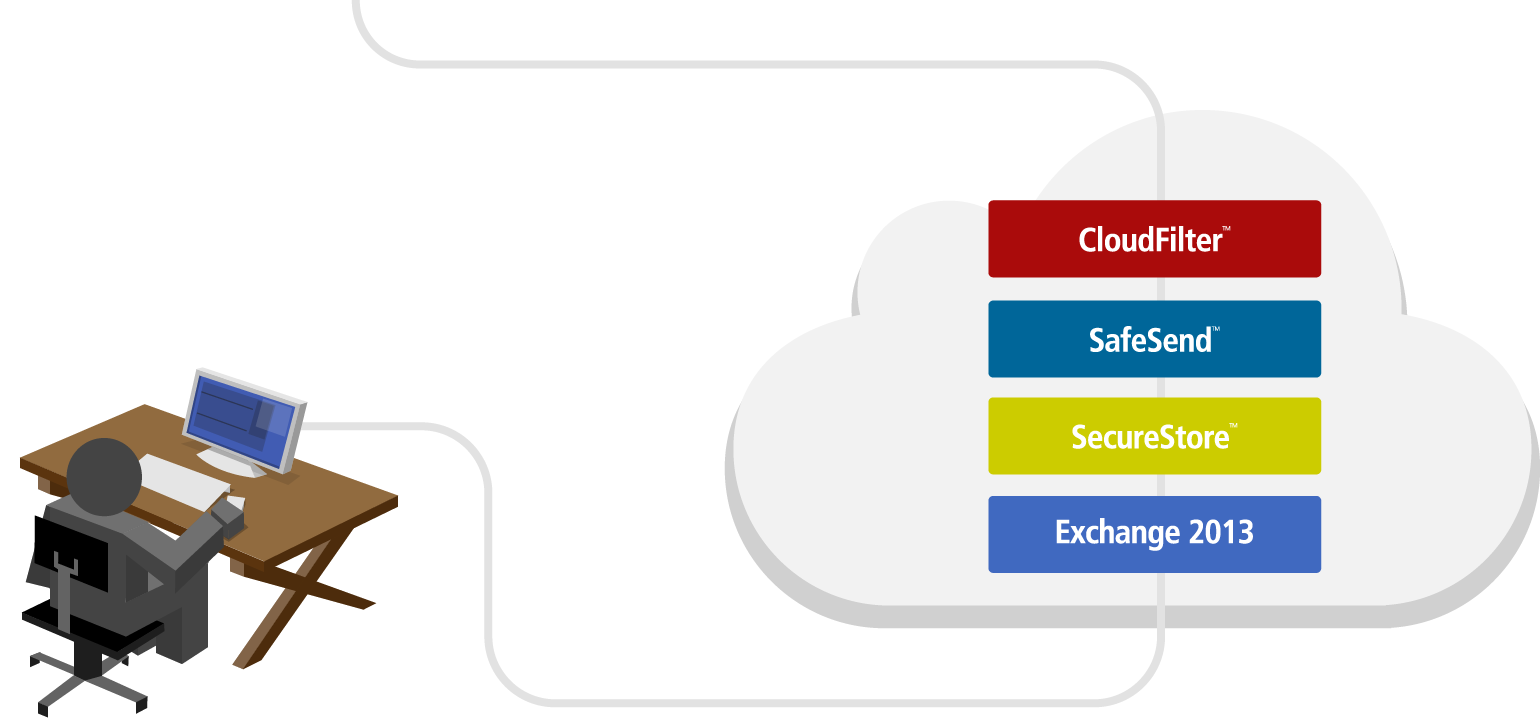
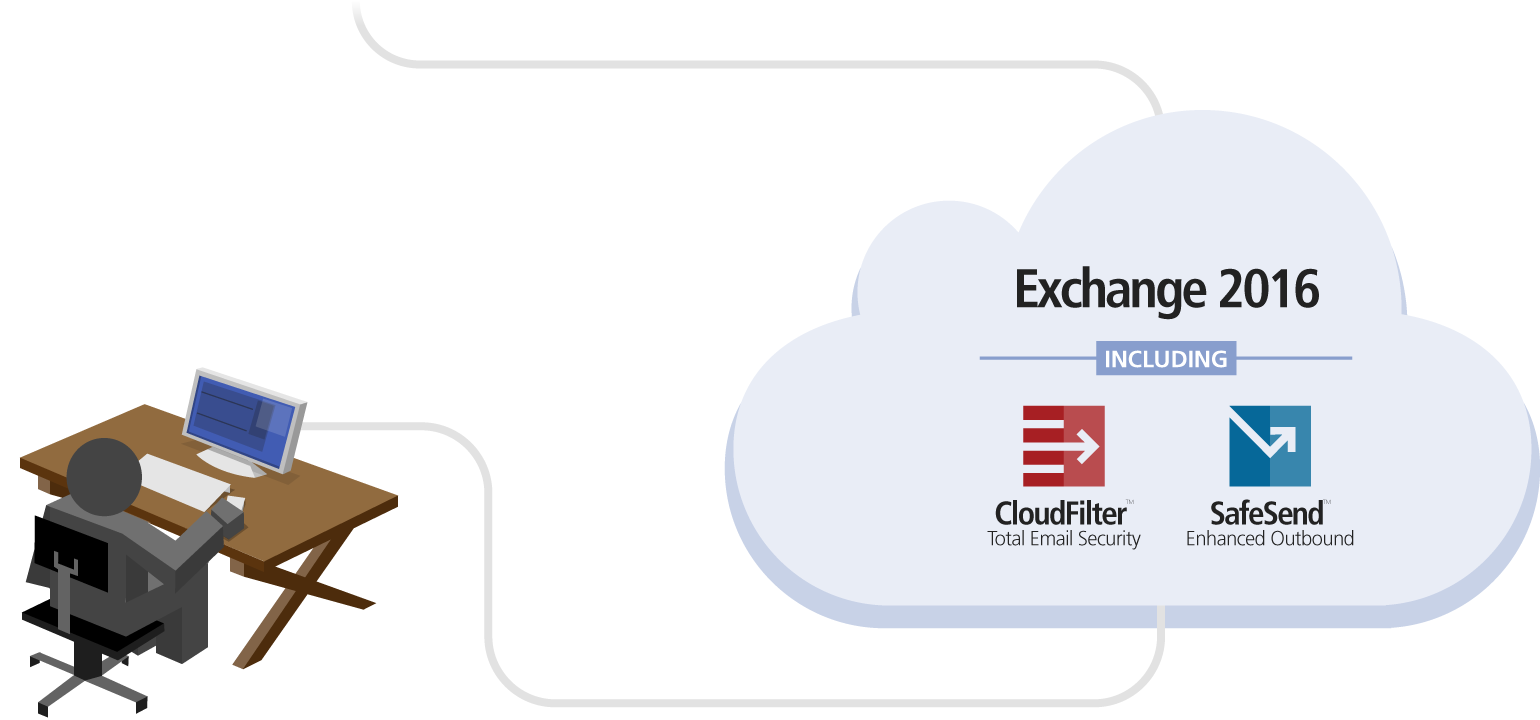
Complete refresh of HE page for Exchange 2016 and new structure

Changed region(s): [[0.6234, 0.275, 0.8727, 0.7944]]

diff --git a/hostedexchange/index.html b/hostedexchange/index.html
@@ -1,9 +1,61 @@
 ---
 layout: default
-title: Exchange + Secure MS Exchange - Mailprotector&reg;
-description: The power &amp; social media features of Hosted Exchange 2013 combined with the security of Mailprotector services.
+title: Exchange 2016 from Mailprotector&reg;
+description: The power of Hosted Exchange 2016 combined with the trusted security of Mailprotector.
 body_class: hostedexchange
 ---
+
+<script>
+    $(window).scroll(function() {
+        var scroll = $(window).scrollTop();
+        if (scroll >= 3000) {
+            $(this).delay(100).queue(function(){
+                $(".slideup.one").addClass("animate");
+                $(this).dequeue();
+            });
+            $(this).delay(300).queue(function(){
+                $(".slideup.two").addClass("animate");
+                $(this).dequeue();
+            });
+            $(this).delay(500).queue(function(){
+                $(".slideup.three").addClass("animate");
+                $(this).dequeue();
+            });
+        }
+    });
+</script>
+<style>
+/*--bricks--*/
+.slideup.one,
+.slideup.two,
+.slideup.three {
+    position:relative;
+    margin-top:50px;
+    opacity:0;-ms-filter:progid:DXImageTransform.Microsoft.Alpha(Opacity=0);filter:alpha(opacity=0);
+    }
+    
+.slideup.animate{
+    -webkit-animation:slideUp 500ms ease-out;
+    -moz-animation:slideUp 500ms ease-out;
+    -o-animation:slideUp 500ms ease-out;
+    -ms-animation:slideUp 500ms ease-out;
+    animation:slideUp 500ms ease-out;
+    margin-top:-10px;
+    opacity:1;-ms-filter:none;filter:none;top:0px
+    }
+   
+    
+@-moz-keyframes slideUp{0%{margin-top:30px;opacity:0;-ms-filter:progid:DXImageTransform.Microsoft.Alpha(Opacity=0);filter:alpha(opacity=0);}
+100%{margin-top:-10px;opacity:1;-ms-filter:none;filter:none;top:0px}
+}@-webkit-keyframes slideUp{0%{margin-top:30px;opacity:0;-ms-filter:progid:DXImageTransform.Microsoft.Alpha(Opacity=0);filter:alpha(opacity=0);}
+100%{margin-top:-10px;opacity:1;-ms-filter:none;filter:none;top:0px}
+}@-o-keyframes slideUp{0%{margin-top:30px;opacity:0;-ms-filter:progid:DXImageTransform.Microsoft.Alpha(Opacity=0);filter:alpha(opacity=0);}
+100%{margin-top:-10px;opacity:1;-ms-filter:none;filter:none;top:0px}
+}@-ms-keyframes slideUp{0%{margin-top:30px;opacity:0;-ms-filter:progid:DXImageTransform.Microsoft.Alpha(Opacity=0);filter:alpha(opacity=0);}
+100%{margin-top:-10px;opacity:1;-ms-filter:none;filter:none;top:0px}
+}@keyframes slideUp{0%{margin-top:30px;opacity:0;-ms-filter:progid:DXImageTransform.Microsoft.Alpha(Opacity=0);filter:alpha(opacity=0);}
+100%{margin-top:-10px;opacity:1;-ms-filter:none;filter:none;top:0px}
+</style>
 
 <div class="container-fluid jumbotron">
     <div class="container">
@@ -11,7 +63,7 @@ body_class: hostedexchange
             <div class="col-sm-4 product-summary">
                <img class="img-responsive product-logo" src="{{ site.baseurl}}/images/product-logo-exchange+.png">
                <p class="lead">
-                Our layered security &amp; continuity services are combined with the power of Exchange 2013, giving your customers the ultimate hosted email solution.
+Exchange+ from Mailprotector delivers Exchange 2016 with better email, calendars, contacts, Outlook Web App and more, whiile helping your customers collaborate and communicate more securely.
                 </p>
                 <a class="btn btn-default btn-large product-btn" href="{{ site.baseurl}}/signup">
                 <span class="visible-lg visible-md visible-xs">Partner with Mailprotector<span class="subtext">Sign up free in under 2 minutes</span></span><span class="visible-sm">Sign up for Free</span></a>
@@ -28,11 +80,12 @@ body_class: hostedexchange
             <div class="col-md-12">
                 <ul class="list-unstyled product-features-list">
                     <li class="product-features-item col-xs-12 col-sm-4 col-md-4 col-lg-3"><i class="fa fa-check"></i> Up to 50GB mailboxes</li>
-                    <li class="product-features-item col-xs-12 col-sm-4 col-md-4 col-lg-3"><i class="fa fa-check"></i> Outlook 2013</li>
+                    <li class="product-features-item col-xs-12 col-sm-4 col-md-4 col-lg-3"><i class="fa fa-check"></i> Outlook 2016</li>
+                    <li class="product-features-item col-xs-12 col-sm-4 col-md-4 col-lg-3"><i class="fa fa-check"></i> Social Media Apps</li>
                     <li class="product-features-item col-xs-12 col-sm-4 col-md-4 col-lg-3"><i class="fa fa-check"></i> Contacts/Calendars</li>
-                    <li class="product-features-item col-xs-12 col-sm-4 col-md-4 col-lg-3"><i class="fa fa-check"></i> Collaboration</li>
+                    <li class="product-features-item col-xs-12 col-sm-4 col-md-4 col-lg-3 hidden-lg"><i class="fa fa-check"></i> Collaboration</li>
                     <li class="product-features-item col-xs-12 col-sm-4 col-md-4 col-lg-3 hidden-lg"><i class="fa fa-check"></i> Full-Featured Webmail</li>
-                    <li class="product-features-item col-xs-12 col-sm-4 col-md-4 col-lg-3 hidden-lg"><i class="fa fa-check"></i> Social Media Apps</li>
+                    
                 </ul>
             </div>
         </div>
@@ -40,112 +93,187 @@ body_class: hostedexchange
 </div>
 
 
+<div class="product-main">
+    <div class="container">
+        
+        <div class="row">
+            <div class="col-lg-12">
+                <h2 class="text-center">What's new in Exchange 2016?</h2>
+                <h3 class="subheading text-center">The best tools for businesses to accomplish today, and prepare for tomorrow</h3>
+            </div>
+        </div>
+        
+        <style>
+            .video-container{
+                position: relative;
+                padding-bottom: 56.25%;
+                padding-top: 30px;
+                height: 0;
+                overflow: hidden;
+                margin-top: 17px;
+            }
+            .video-container iframe, .video-container object, .video-container embed{
+                position: absolute;
+                top: 0;
+                left: 0;
+                width: 100%;
+                height: 100%
+            }
+        </style>
+        
+        <div class="col-sm-12 video-container">
+            <iframe id="ytapiplayer" frameborder="0" allowfullscreen="1" title="YouTube video player" width="640" height="360" src="https://www.youtube.com/embed/sZsh7SH0dM4?modestbranding=1&amp;showinfo=0&amp;rel=0&amp;widget_referrer=http%3A%2F%2Fmailprotector.com&amp;enablejsapi=1&amp;origin=https%3A%2F%2Fconsole.mailprotector.com"></iframe>
+        </div>
+    </div> 
+</div>
+
 <div class="product-main alt">
     <div class="container">
         <div class="row">
-            <div class="col-lg-12">
-                <h2 class="text-center">Exchange 2013 plus the security of Mailprotector</h2>
-                <h3 class="subheading text-center">The ULTIMATE business-class email solution for organizations of any size</h3>
+            <div class="col-md-7">
+                <h2>Enhanced Collaboration</h2>
+                <p>Exchange 2016 includes a new approach to attachments that simplifies document sharing and eliminates version control headaches. In Outlook 2016 or Outlook on the web, you can now attach a document as a link to SharePoint 2016 (currently in preview) or OneDrive for Business instead of a traditional attachment, providing the benefits of coauthoring and version control.</p>
+            </div>
+            <div class="col-md-5 text-center">
+                <img class="img-responsive" src="{{ site.baseurl}}/images/screen-collaboration.png">
             </div>
         </div>
+    </div> 
+</div> 
+<div class="product-main">
+    <div class="container">
         <div class="row">
-            <div class="col-sm-4 product-col">
-                <h4 class="text-center"><i class="fa fa-umbrella icon-col-heading mid-color light-bg"></i>Email security Included</h4>
-                <p class="last text-center">Using CloudFilter is like having your own personal spam-defense team that works around the clock. Our heuristics engines perform more than 75 tests containing over 500,000 active pattern-matching algorithms.</p>
+            <div class="col-md-7 pull-right">
+                <h2>Improved Outlook Web Experience</h2>
+                <p>In order to provide you with a first class web experience across devices, Exchange 2016 has made significant updates to Outlook on the web. New features include: Sweep, Pin, Undo, inline reply, a new single-line inbox view, improved HTML rendering, new themes, emojis, and more.</p>
             </div>
-            <div class="col-sm-4 product-col">
-                <h4 class="text-center">
-                    <i class="fa fa-phone icon-col-heading mid-color light-bg"></i>World class customer support</h4>
-                <p class="last text-center">When you contact support at Mailprotector you'll speak to an actual human being who works at Mailprotector HQ. They know what they're doing &amp; help resolve issues quickly.</p>
-        
-            </div>
-            <div class="col-sm-4 product-col">
-                <h4 class="text-center"><i class="fa fa-exchange icon-col-heading mid-color light-bg"></i>Inbound/Outbound Policy Control</h4>
-                <p class="last text-center">Utilize pre-defined content lexicons to secure data such as Social Security or credit card numbers, or create custom rules to cover your specific policies or legal compliance needs.</p>
-            </div>
-        </div>
-        <div class="row">
-            <div class="col-sm-4 product-col">
-                <h4 class="text-center"><i class="fa fa-star icon-col-heading mid-color light-bg"></i>Full Exchange 2013 Features</h4>
-                <p class="last text-center">With Mailprotector's Hosted Exchange package you get all the features you need to keep your organization safe, connected, &amp; working as a team: syncing, sharing, calendars, tasks, notes, &amp; more!</p>
-            </div>
-            <div class="col-sm-4 product-col">
-                <h4 class="text-center">
-                    <i class="fa fa-truck icon-col-heading mid-color light-bg"></i>Improved email deliverability</h4>
-                <p class="last text-center">Clean internal email in the cloud significantly lowers the risk of improper routing &amp; noncompliant messages &amp; strengthens your professional image.</p>
-        
-            </div>
-            <div class="col-sm-4 product-col">
-                <h4 class="text-center"><i class="fa fa-hdd-o icon-col-heading mid-color light-bg"></i>Redundant Infrastructure</h4>
-                <p class="last text-center">Don't stress about your email being down anymore. Mailprotector's Tier IV facilities feature fully redundant connectivity &amp; power, &amp; employ state-of-the-art security, cooling &amp; fire-prevention systems.</p>
+            <div class="col-md-5 text-center">
+                <img class="img-responsive" src="{{ site.baseurl}}/images/screen-exchange2016-outlook-web.png">
             </div>
         </div>
     </div> 
 </div>
-<div class="product-main last">
+<div class="product-main alt">
+    <div class="container">
+        <div class="row">
+            <div class="col-md-7">
+                <h2>Lightning Fast Search</h2>
+                <p>Exchange 2016's new search architecture delivers more accurate and complete results. Outlook 2016 is optimized to use the power of the Exchange 2016 back end to help you find things faster, across old mail and new. Search also gets more intelligent with Search suggestions, People suggestions, search refiners, and the ability to search for events in your Calendar.</p>
+            </div>
+            <div class="col-md-5 text-center">
+                <img class="img-responsive" src="{{ site.baseurl}}/images/screen-exchange2016-search.png">
+            </div>
+        </div>
+    </div> 
+</div>
+
+<div class="product-main">
+    <div class="container">
+        
+        <div class="row">
+            <div class="col-lg-12">
+                <h2 class="text-center">Why Exchange 2016 from Mailprotector?</h2>
+                <h3 class="subheading text-center">The power of Exchange 2016 with the trusted security of Mailprotector</h3>
+            </div>
+        </div>
+      
+        <div class="row">
+            <div class="col-sm-4 product-col">
+                <h4 class="text-center">
+                    <i class="fa fa-truck icon-col-heading mid-color light-bg"></i>Simplified Architecture</h4>
+                <p class="last text-center">Architecture improvements remove the stress of managing your messaging environment and make it more robust.</p>
+            </div>
+            <div class="col-sm-4 product-col">
+                <h4 class="text-center"><i class="fa fa-umbrella icon-col-heading mid-color light-bg"></i>Total Email Security</h4>
+                <p class="last text-center">Included CloudFilter and SafeSend from Mailprotector protect your users and your business reputation.</p>
+            </div>
+            <div class="col-sm-4 product-col">
+                <h4 class="text-center"><i class="fa fa-hdd-o icon-col-heading mid-color light-bg"></i>Redundant Infrastructure</h4>
+                <p class="last text-center">Mailprotector's Tier IV facilities are fully redundant, so email outages virtually become a thing of the past.</p>
+            </div>
+        </div>
+    </div> 
+</div>
+
+<div class="product-main alt last">
     <div class="container">
         <div class="row">
             <div class="col-lg-12">
-                <h2 class="text-center">Choose from 3 affordable plans</h2>
-                <h3 class="subheading text-center">Exchange + gives you the flexibility to only pay for what you need</h3>
+                <h2 class="text-center">Build the perfect Exchange+ bundle</h2>
+                <h3 class="subheading text-center">Save money by only adding the options you need</h3>
+            </div>
+        </div>
+        <div class="row">
+            <div class="col-md-12">
+                <div class="product-levels slideup">
+                    <div class="product-level-heading text-center dark-bg brick">
+                        <span class="product-level-heading-name" style="font-size:60px;color:#FFF;opacity: 1.0;text-transform: none;">Exchange+ gives you:</span>
+                    </div>
+                    <div class="product-level-features dark-bg" style="position:relative;z-index:5;box-shadow: 0 2px 2px rgba(0,0,0,0.3)">
+                        
+                        <div class="row">
+                            <div class="col-md-6">
+                                <ul class="list-unstyled product-level-list ">
+                                    <li class=" product-level-list-item col-xs-12 col-sm-6 col-md-12 product-level-heading-name white"> <b>Exchange 2016</b></li>
+                                    <li class=" product-level-list-item col-xs-12 col-sm-6 col-md-12"><i class="fa fa-check"></i> 10 GB Mailboxes</li>
+                                    <li class=" product-level-list-item col-xs-12 col-sm-6 col-md-12"><i class="fa fa-check"></i> Outlook on the Web (formerly OWA)</li>
+                                    <li class=" product-level-list-item col-xs-12 col-sm-6 col-md-12"><i class="fa fa-check"></i> IMAP/POP Syncing</li>
+                                </ul>
+                            </div>
+                            <div class="col-md-6">
+                                <ul class="list-unstyled product-level-list ">
+                                    <li class=" product-level-list-item col-xs-12 col-sm-6 col-md-12 product-level-heading-name white"> <b><u>Plus</u> Mailprotector Security</b></li>
+                                    <li class=" product-level-list-item col-xs-12 col-sm-6 col-md-12"><i class="fa fa-plus"></i> CloudFilter Email Security</li>
+                                    <li class=" product-level-list-item col-xs-12 col-sm-6 col-md-12"><i class="fa fa-plus"></i> SafeSend Enhanced Outbound</li>
+                                </ul>
+                            </div>
+                        </div>
+                        <div class="product-level-heading text-center mid-bg">
+                        <span class="product-level-heading-name">Additional options</span>
+                    </div>
+                        <div class="clearfix"></div>
+                    </div>
+                </div>
             </div>
         </div>
         <div class="row">
             <div class="col-md-4">
-                <div class="product-levels">
-                    <div class="product-level-heading text-center dark-bg">
-                        <span class="product-level-heading-name">basic</span>
-                        <span class="product-level-heading-large kern-tight">10<span>GB</span></span>
+                <div class="product-levels slideup one">
+                    <div class="product-level-heading text-center mid-bg brick">
+                        <img class="img-responsive" src="{{ site.baseurl}}/images/icon-teamanywhere.png">
+                        <span class="product-level-heading-name white">Team Anywhere</span>
                     </div>
                     <div class="product-level-features light-bg mid-color">
                         <ul class="list-unstyled product-level-list ">
-                            <li class=" product-level-list-item col-xs-12 col-sm-6 col-md-12"><i class="fa fa-plus"></i> CloudFilter <span>Email Security</span></li>
-                            <li class=" product-level-list-item col-xs-12 col-sm-6 col-md-12"><i class="fa fa-check"></i> SafeSend <span>Enhanced Outbound</span></li>
-                            <li class=" product-level-list-item col-xs-12 col-sm-6 col-md-12"><i class="fa fa-check"></i> POP/IMAP</li>
-                            <li class=" product-level-list-item col-xs-12 col-sm-6 col-md-12"><i class="fa fa-check"></i> Active Sync</li>
-                            <li class=" product-level-list-item col-xs-12 col-sm-6 col-md-12"><i class="fa fa-check"></i> Calendars/Contacts</li>
-                            <li class=" product-level-list-item col-xs-12 col-sm-6 col-md-12"><i class="fa fa-check"></i> Collaboration</li>
+                            <li class=" product-level-list-item col-xs-12 col-sm-6 col-md-12" style="margin-bottom: 20px;">Team Anywhere adds ActiveSync and Collaboration features to keep teams working in unison.</li>
                         </ul>
                         <div class="clearfix"></div>
                     </div>
                 </div>
             </div>
             <div class="col-md-4">
-                <div class="product-levels">
-                    <div class="product-level-heading text-center dark-bg">
-                        <span class="product-level-heading-name">advanced</span>
-                        <span class="product-level-heading-large">25<span>GB</span></span>
-                    </div>
-                    <div class="product-level-features light-bg mid-color">
-                        <ul class="list-unstyled product-level-list ">
-                            <li class=" product-level-list-item col-xs-12 col-sm-6 col-md-12"><i class="fa fa-plus"></i> <b>Outlook Licensing</b></li>
-                            <li class=" product-level-list-item col-xs-12 col-sm-6 col-md-12"><i class="fa fa-check"></i> CloudFilter <span>Email Security</span></li>
-                            <li class=" product-level-list-item col-xs-12 col-sm-6 col-md-12"><i class="fa fa-check"></i> SafeSend <span>Enhanced Outbound</span></li>
-                            <li class=" product-level-list-item col-xs-12 col-sm-6 col-md-12"><i class="fa fa-check"></i> POP/IMAP</li>
-                            <li class=" product-level-list-item col-xs-12 col-sm-6 col-md-12"><i class="fa fa-check"></i> Active Sync</li>
-                            <li class=" product-level-list-item col-xs-12 col-sm-6 col-md-12"><i class="fa fa-check"></i> Calendars/Contacts</li>
-                            <li class=" product-level-list-item col-xs-12 col-sm-6 col-md-12"><i class="fa fa-check"></i> Collaboration</li>
-                        </ul>
-                        <div class="clearfix"></div>
-                    </div>
-                </div>
-            </div>
-            <div class="col-md-4">
-                <div class="product-levels">
-                    <div class="product-level-heading text-center dark-bg">
-                        <span class="product-level-heading-name">premium</span>
-                        <span class="product-level-heading-large">50<span>GB</span></span>
+                <div class="product-levels slideup two">
+                    <div class="product-level-heading text-center mid-bg brick">
+                        <img class="img-responsive" src="{{ site.baseurl}}/images/icon-storage.png">
+                        <span class="product-level-heading-name white">Extra Storage</span>
                     </div>
                     <div class="product-level-features light-bg mid-color">
                         <ul class="list-unstyled product-level-list">
-                            <li class=" product-level-list-item col-xs-12 col-sm-6 col-md-12"><i class="fa fa-plus"></i> <b>SecureStore 1</b> <span>Archiving</span></li>
-                            <li class=" product-level-list-item col-xs-12 col-sm-6 col-md-12"><i class="fa fa-check"></i> Outlook Licensing</li>
-                            <li class=" product-level-list-item col-xs-12 col-sm-6 col-md-12"><i class="fa fa-check"></i> CloudFilter <span>Email Security</span></li>
-                            <li class=" product-level-list-item col-xs-12 col-sm-6 col-md-12"><i class="fa fa-check"></i> SafeSend <span>Enhanced Outbound</span></li>
-                            <li class=" product-level-list-item col-xs-12 col-sm-6 col-md-12"><i class="fa fa-check"></i> POP/IMAP</li>
-                            <li class=" product-level-list-item col-xs-12 col-sm-6 col-md-12"><i class="fa fa-check"></i> Active Sync</li>
-                            <li class=" product-level-list-item col-xs-12 col-sm-6 col-md-12"><i class="fa fa-check"></i> Calendars/Contacts</li>
-                            <li class=" product-level-list-item col-xs-12 col-sm-6 col-md-12"><i class="fa fa-check"></i> Collaboration</li>
+                            <li class=" product-level-list-item col-xs-12 col-sm-6 col-md-12" style="margin-bottom: 20px;">Need more storage? You can add 5 gigs at a time on the fly on single mailboxes... up to 50GB!</li>
+                        </ul>
+                        <div class="clearfix"></div>
+                    </div>
+                </div>
+            </div>
+            <div class="col-md-4">
+                <div class="product-levels slideup three">
+                    <div class="product-level-heading text-center mid-bg brick">
+                        <img class="img-responsive" src="{{ site.baseurl}}/images/icon-outlook.png">
+                        <span class="product-level-heading-name white">Outlook 2016</span>
+                    </div>
+                    <div class="product-level-features light-bg mid-color">
+                        <ul class="list-unstyled product-level-list">
+                            <li class=" product-level-list-item col-xs-12 col-sm-6 col-md-12" style="margin-bottom: 20px;">Easily provision Outlook 2016 licensing across an array of desktop and mobile platforms.</li>
                         </ul>
                         <div class="clearfix"></div>
                     </div>
@@ -154,6 +282,9 @@ body_class: hostedexchange
         </div> 
     </div>
 </div>
+
+
+
 <div class="link-row">
     <div class="container">
         <div class="row">
@@ -188,3 +319,5 @@ body_class: hostedexchange
         </div>
     </div>
 </div>
+<style>
+

diff --git a/css/global.css b/css/global.css
@@ -774,6 +774,9 @@ body.formpage {
 .hostedexchange .dark-bg {
 	background-color: #4069C0;
 }
+.hostedexchange .mid-bg {
+	background-color: #7b97d4;
+}
 .hostedexchange .mid-color,.cloudmail .hostedexchange .mid-color {
 	color: #6687CC;
 }
@@ -839,6 +842,16 @@ body.formpage {
 }
 .product-level-list-item span {
 	font-size: 13px;
+}
+.product-level-heading-name.white {
+	display: block;
+	font-size: 30px;
+	text-transform: uppercase;
+	line-height: 30px;
+	opacity: 1.0;
+	-ms-filter: progid:DXImageTransform.Microsoft.Alpha(Opacity=100);
+	filter: alpha(opacity=100);
+    color:#FFF;
 }
 a.link-icon{
 	text-decoration: none;
